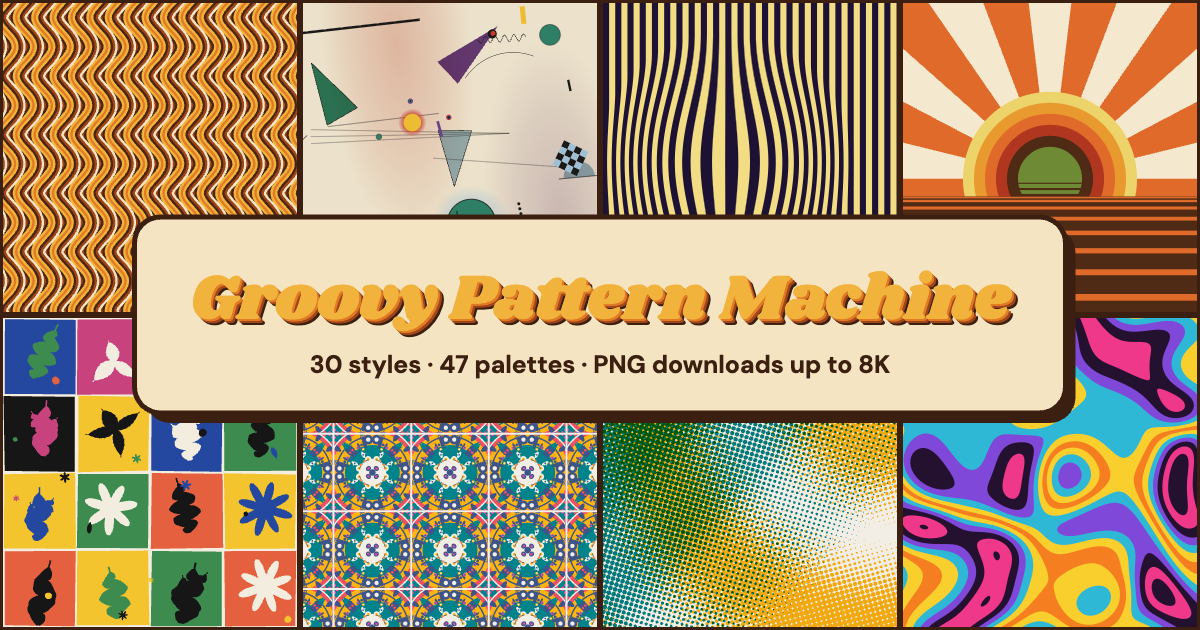
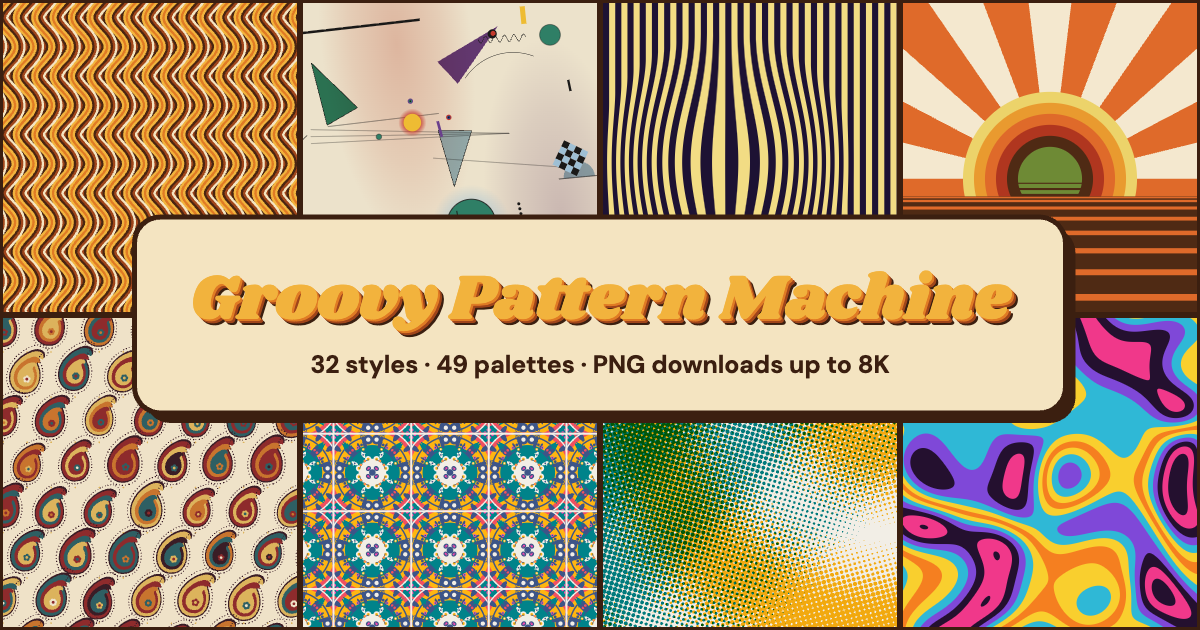
Kashmir and Madras palettes; more featured pairings; social image

Changed region(s): [[0.0, 0.4825, 0.2467, 0.9952], [0.2467, 0.5429, 0.74, 0.6032]]

diff --git a/site/js/core.js b/site/js/core.js
@@ -1,5 +1,5 @@
 // Seeded randomness, palettes, the render pipeline and the strip-based PNG exporter.
-import { PATTERNS } from './patterns.js?v=29';
+import { PATTERNS } from './patterns.js?v=30';
 
 export const MAX_SIDE = 8192;
 
@@ -77,6 +77,7 @@ export const PALETTES = [
   P('70s', 'seafoam', 'Seafoam Motel', ['#e9efe2', '#1f5f61', '#6fb3a6', '#e98a3c', '#f3c969']),
   P('70s', 'peach', 'Peach Melba', ['#fbebdc', '#3b5d57', '#b4472f', '#e9845c', '#f2b48a']),
   P('70s', 'denim', 'Denim & Rust', ['#f1e9da', '#1b2a49', '#3d6a9e', '#c4572c', '#e8b04a']),
+  P('70s', 'kashmir', 'Kashmir', ['#efe2c8', '#3a1d26', '#8e2b2c', '#c8742e', '#2e5f63', '#dcb35c']),
   P('70s', 'cherrycola', 'Cherry Cola', ['#2b0f0c', '#7d1d1a', '#c43b2c', '#ee7d4b', '#f7c59a']),
   P('70s', 'avonight', 'Avocado Night', ['#1d2312', '#4f6b1f', '#9aa83a', '#e2b33c', '#e57a33', '#f1e2bf']),
 
@@ -101,6 +102,7 @@ export const PALETTES = [
   P('pop', 'psych', 'Psychedelic', ['#1d1233', '#5f2ca0', '#d93d6c', '#f39a24', '#3ab5a6', '#f2dc84']),
   P('pop', 'lava', 'Lava Lamp', ['#1a0d24', '#7b1fa2', '#e3245e', '#ff7a1a', '#ffc93c']),
   P('pop', 'zine', 'Zine Inks', ['#f2eee6', '#3d5588', '#ff48b0', '#ffb511', '#00838a', '#f15060']),
+  P('pop', 'madras', 'Madras', ['#f4ecdc', '#1e3657', '#c63a2f', '#e9a53a', '#2c7a57', '#7b3d6b']),
   P('pop', 'mint', 'Mod Mint', ['#e6f2ea', '#11423f', '#2c9c86', '#f29e4c', '#e8566b']),
   P('pop', 'pink', 'Pink Lounge', ['#fbe4e2', '#6d1a36', '#d43d6a', '#f58fa3', '#f6c453']),
   P('pop', 'opart', 'Op Art', ['#f7f5f0', '#141414']),

diff --git a/site/index.html b/site/index.html
@@ -15,9 +15,9 @@
   <link rel="preconnect" href="https://fonts.googleapis.com">
   <link rel="preconnect" href="https://fonts.gstatic.com" crossorigin>
   <link rel="stylesheet" href="https://fonts.googleapis.com/css2?family=DM+Sans:opsz,wght@9..40,400;9..40,500;9..40,700&family=Shrikhand&display=swap">
-  <link rel="modulepreload" href="js/core.js?v=29">
-  <link rel="modulepreload" href="js/patterns.js?v=29">
-  <link rel="stylesheet" href="css/style.css?v=29">
+  <link rel="modulepreload" href="js/core.js?v=30">
+  <link rel="modulepreload" href="js/patterns.js?v=30">
+  <link rel="stylesheet" href="css/style.css?v=30">
 </head>
 <body>
   <header class="masthead">
@@ -120,6 +120,6 @@
   </div>
 
   <div class="toast" id="toast" role="status" aria-live="polite"></div>
-  <script type="module" src="js/app.js?v=29"></script>
+  <script type="module" src="js/app.js?v=30"></script>
 </body>
 </html>

diff --git a/site/js/app.js b/site/js/app.js
@@ -1,7 +1,7 @@
 import {
   PATTERNS, PATTERNS_BY_ID, PALETTES, PALETTES_BY_ID, PALETTE_GROUPS, MAX_SIDE,
   renderPattern, exportPNG, randomSeed, inventPalette, paletteFromPixels, deltaE,
-} from './core.js?v=29';
+} from './core.js?v=30';
 
 const $ = (id) => document.getElementById(id);
 const dpr = () => Math.min(window.devicePixelRatio || 1, 2);
@@ -38,6 +38,7 @@ const FEATURED = [
   ['bulge', 'psych', 'vega'], ['cutouts', 'cutouts', 'a'], ['destijl', 'destijl', 'b'],
   ['colorstudy', 'kandinsky', 'a'], ['ogee', 'sunset', 'k'], ['drops', 'avocado', 'k'],
   ['atomic', 'midcentury', 'a'], ['oplines', 'opart', 'riley'], ['liquid', 'disco', 'groovy'],
+  ['paisley', 'kashmir', 'c'], ['halftone', 'zine', 'a'], ['weave', 'madras', 'd'], ['homage', 'kandinsky', 'b'],
 ];
 
 // Palette groups that suit each family, for "Surprise me".

diff --git a/site/sheet.html b/site/sheet.html
@@ -15,7 +15,7 @@
 <body>
   <div id="grid"></div>
   <script type="module">
-    import { PATTERNS, PALETTES_BY_ID, renderPattern } from './js/core.js?v=29';
+    import { PATTERNS, PALETTES_BY_ID, renderPattern } from './js/core.js?v=30';
     const q = new URLSearchParams(location.search);
     const styles = (q.get('styles') || PATTERNS.map((p) => p.id).join()).split(',');
     const seeds = (q.get('seeds') || 'a,b,c').split(',');

diff --git a/README.md b/README.md
@@ -14,7 +14,7 @@ Everything runs in the browser. There is no server-side code, no build step and 
   - *1970s:* Groovy Waves, Rainbow Scales, Petal Drops, Loop Chain, Ogee Onions, Diamond Nest, Liquid Groove, Flower Power, Supergraphic, Mod Targets, Rainbow Tiles, Sunrise, Kaleidoscope, Parquet, Paisley
   - *Bauhaus, geometric & op:* Bauhaus Blocks, Kaleido Quilt, Chevron Op, Truchet Rings, Tumbling Blocks, Op Squares, Op Bulge, Op Lines, Halftone, Weave
   - *Art & abstract:* Composition, Floating Circles and Color Study (after Kandinsky), De Stijl Grid (after Mondrian), Cut-Outs (after Matisse), Homage (after Albers), Atomic Age
-- **47 curated palettes in four groups:** Seventies, Modern art, Pop & op, and Soft. You can edit any colour, add or remove colours, or shuffle their order. The first colour is the background.
+- **49 curated palettes in four groups:** Seventies, Modern art, Pop & op, and Soft. You can edit any colour, add or remove colours, or shuffle their order. The first colour is the background.
 - **Invent palette** makes up a new palette. Half the time it remixes a curated palette, turning its hues in OKLCH while keeping its value structure. The rest of the time it composes one from pigment rules. Results whose colours sit too close together are rejected and tried again.
 
 ## Palettes

diff --git a/docs/progress/JOURNAL.md b/docs/progress/JOURNAL.md
@@ -84,7 +84,13 @@
   - Floating mini preview on phones.
   - Copy image.
   - Two-row action bar.
-- Totals: 30 styles, 47 palettes.
+- Then:
+  - Paisley (curled botehs) and Weave (plain or twill, with pillow shading).
+  - Kashmir and Madras palettes.
+  - More featured pairings.
+  - Homage keeps its size at small scale.
+  - Reduced-motion support.
+- Totals: 32 styles, 49 palettes.
 - Not verified: Copy image's success path. The app's built-in browser denies clipboard writes; only the fallback message was seen.
 
 **Next:** seamless-tile export was considered and deferred. Only about six cell-based styles (Truchet, Color Study, Bauhaus Blocks, Rainbow Tiles, Homage, Parquet) could tile exactly. SVG export for the vector styles is the other candidate.
